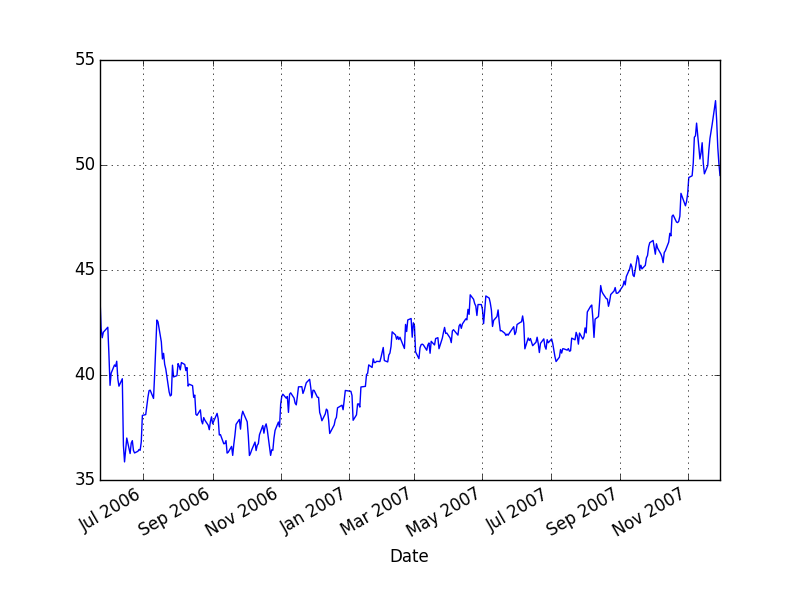
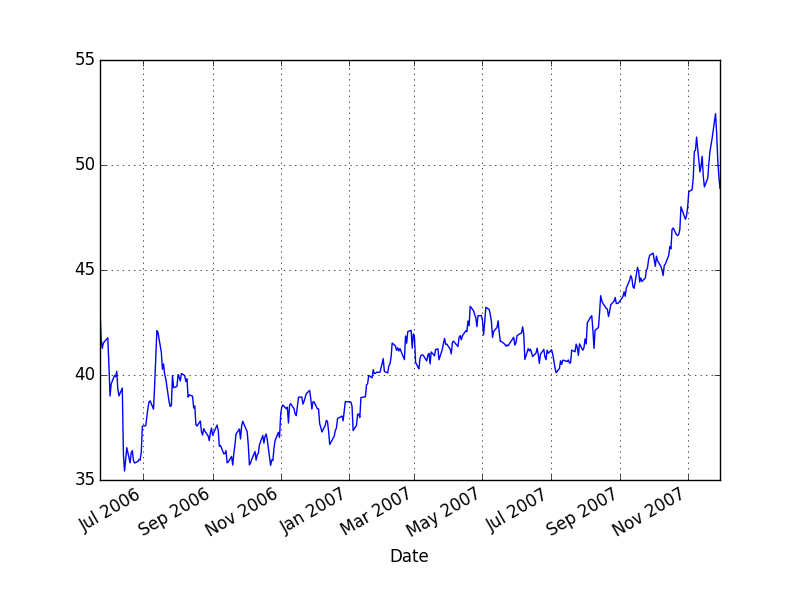
changes

Changed region(s): [[0.1562, 0.48, 0.7812, 0.78], [0.7812, 0.18, 0.9062, 0.48], [0.125, 0.54, 0.1562, 0.66]]

diff --git a/books/Quantitative_Trading_Chan/example3_6.md b/books/Quantitative_Trading_Chan/example3_6.md
@@ -28,7 +28,20 @@ df = pd.DataFrame(index=gld.index)
 df['gld'] = gld['Adj Close']
 df['gdx'] = gdx['Adj Close']
 df = df.dropna()
-hedgeRatio = 0.6
+```
+
+```python
+import statsmodels.formula.api as smf
+results = smf.ols('gdx ~ gld', data=df).fit()
+print results.params['gld']
+```
+
+```text
+0.613232143393
+```
+
+```python
+hedgeRatio = results.params['gld']
 df['spread'] = df['gld'] - hedgeRatio*df['gdx']
 trainset = df[0:251]
 df['spread'].plot()
@@ -37,34 +50,6 @@ plt.savefig('example3_6_01.png'); plt.hold(False)
 
 ![](example3_6_01.png)
 
-```python
-import statsmodels.formula.api as smf
-results = smf.ols('gdx ~ gld', data=df).fit()
-print results.summary()
-```
-```text
-                            OLS Regression Results                            
-==============================================================================
-Dep. Variable:                    gdx   R-squared:                       0.850
-Model:                            OLS   Adj. R-squared:                  0.850
-Method:                 Least Squares   F-statistic:                     2174.
-Date:                Fri, 05 Jun 2015   Prob (F-statistic):          5.39e-160
-Time:                        12:11:33   Log-Likelihood:                -672.42
-No. Observations:                 385   AIC:                             1349.
-Df Residuals:                     383   BIC:                             1357.
-Df Model:                           1                                         
-==============================================================================
-                 coef    std err          t      P>|t|      [95.0% Conf. Int.]
-------------------------------------------------------------------------------
-Intercept     -0.2654      0.862     -0.308      0.758        -1.961     1.430
-gld            0.6132      0.013     46.631      0.000         0.587     0.639
-==============================================================================
-Omnibus:                        9.700   Durbin-Watson:                   0.168
-Prob(Omnibus):                  0.008   Jarque-Bera (JB):               11.146
-Skew:                          -0.280   Prob(JB):                      0.00380
-Kurtosis:                       3.618   Cond. No.                         797.
-==============================================================================
-```
 
 ```python
 plt.hold(True)
